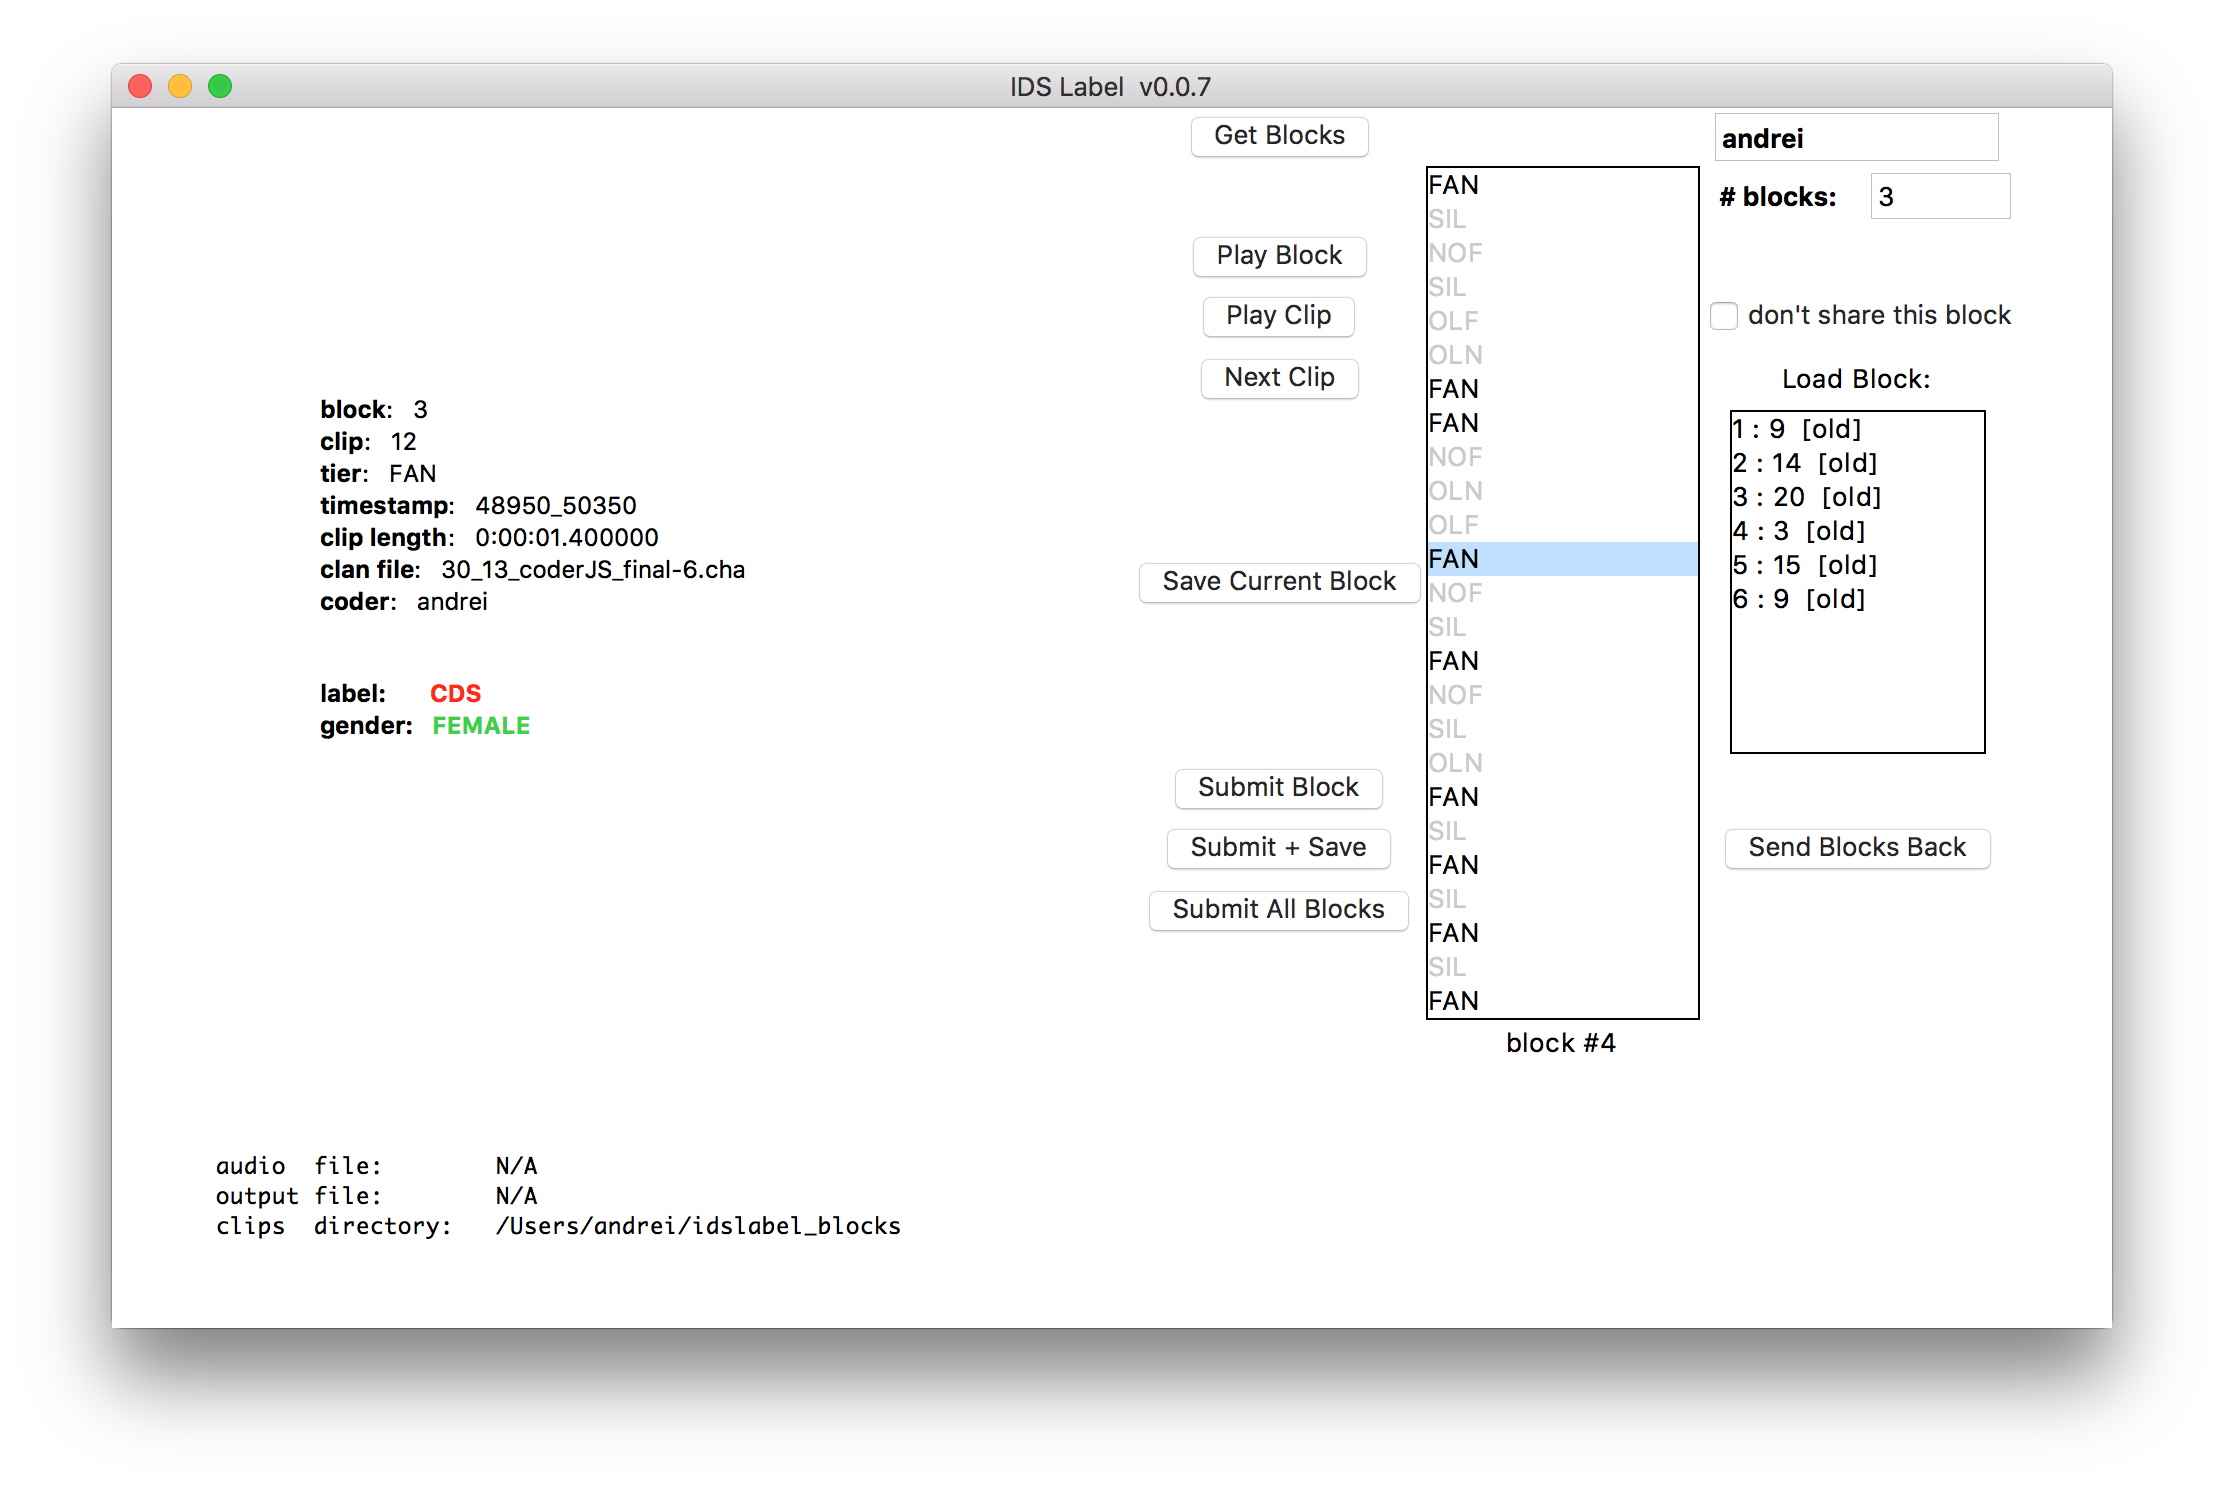
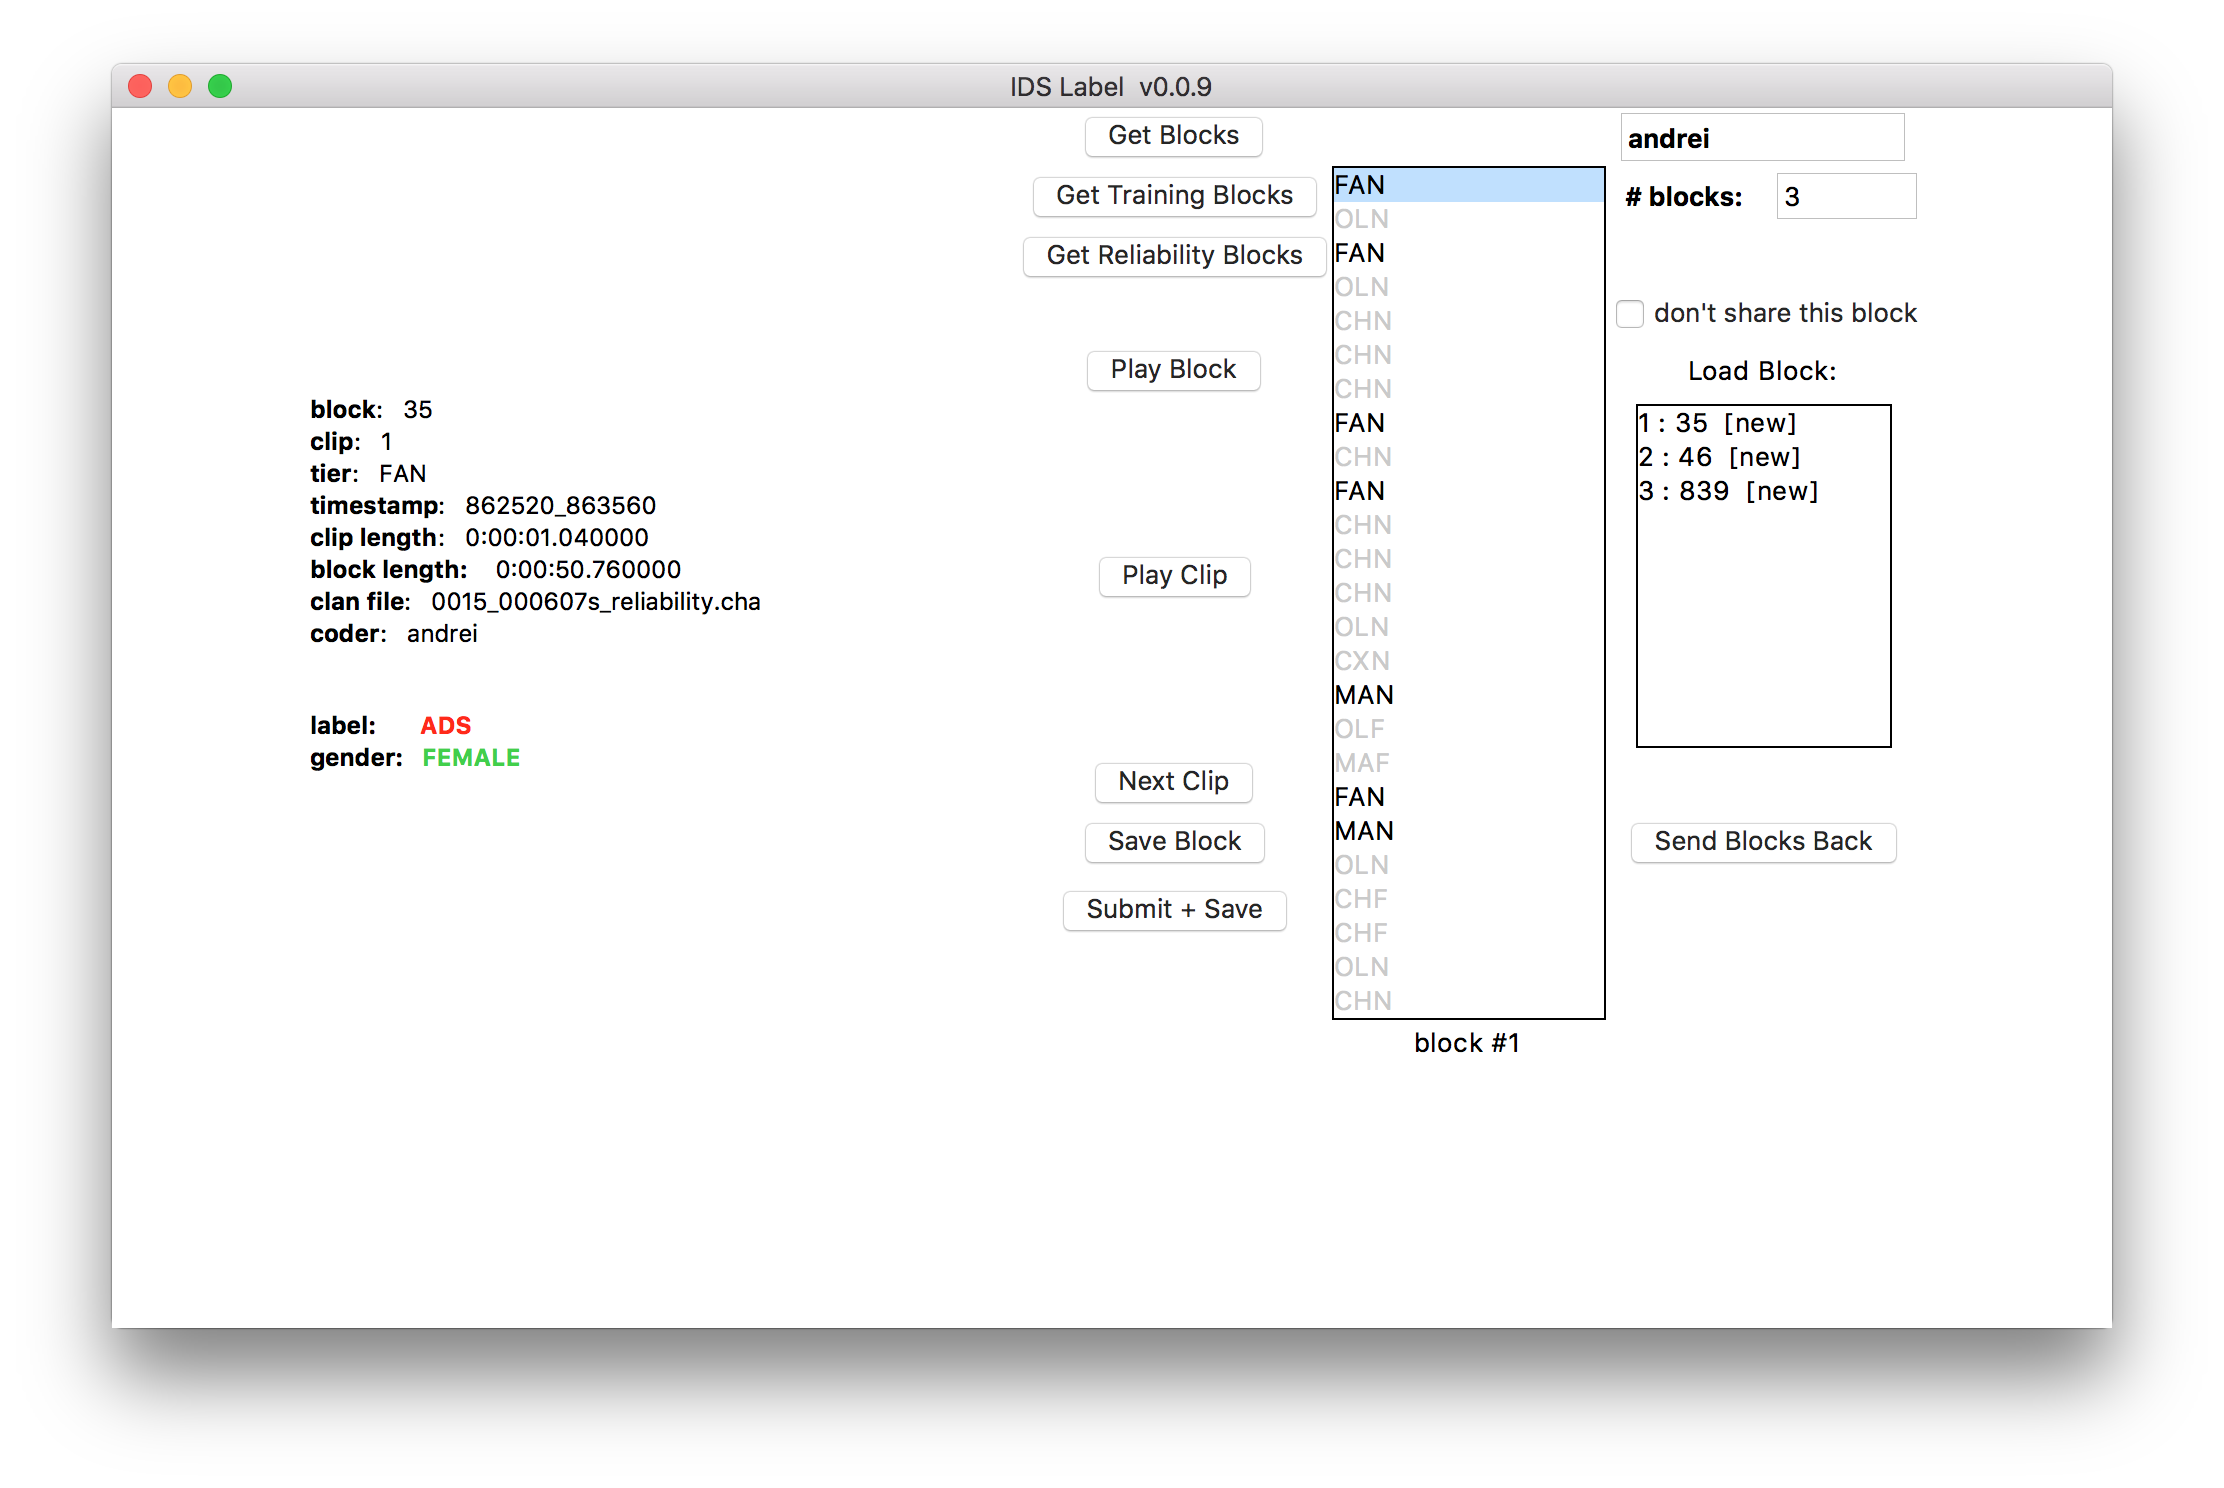
get ready for v0.0.9

diff --git a/idslabel.py b/idslabel.py
@@ -1088,6 +1088,8 @@ class MainWindow:
         self.block_list.selection_clear(0, END)
         self.block_list.selection_set(0)
 
+        self.dont_share_button.deselect()
+
         self.update_curr_clip_info()
 
     def move_currblock_forward(self):
@@ -1713,22 +1715,24 @@ class MainWindow:
 
         self.block_list.delete(0, END)
         self.load_downloaded_blocks()
-        self.load_downloaded_block(0)
+        if self.clip_blocks:
+            self.load_downloaded_block(0)
 
     def submit_block_and_save(self):
 
         if not self.dont_share_applied:
-            result = askyesno("Personal Information", "Block contained personal information?")
+            result = askyesno("Personal Information", "Is block ok to share?")
             if result:
-                self.current_block.dont_share = True
-            else:
                 self.current_block.dont_share = False
+            else:
+                self.current_block.dont_share = True
+                self.dont_share_applied = True
         else:
-            result = askyesno("Personal Information", "Block contained personal information?\n\nCurrent value: True")
+            result = askyesno("Personal Information", "Is block ok to share?\n\nCurrent value: No")
             if result:
-                self.current_block.dont_share = True
-            else:
                 self.current_block.dont_share = False
+            else:
+                self.current_block.dont_share = True
 
         if not self.session_output_file:
             showwarning("Set Output File", "Please choose a csv file to save this session's blocks to")
@@ -1825,7 +1829,7 @@ class MainWindow:
         return (completed_blocks, incomplete_blocks)
 
     def load_downloaded_blocks(self):
-
+        self.block_list.delete(0, END)
         self.previous_block_menu.delete(0, END)
         for index, block in enumerate(self.clip_blocks):
             block_string = "{} : {}".format(index+1, block.index)
